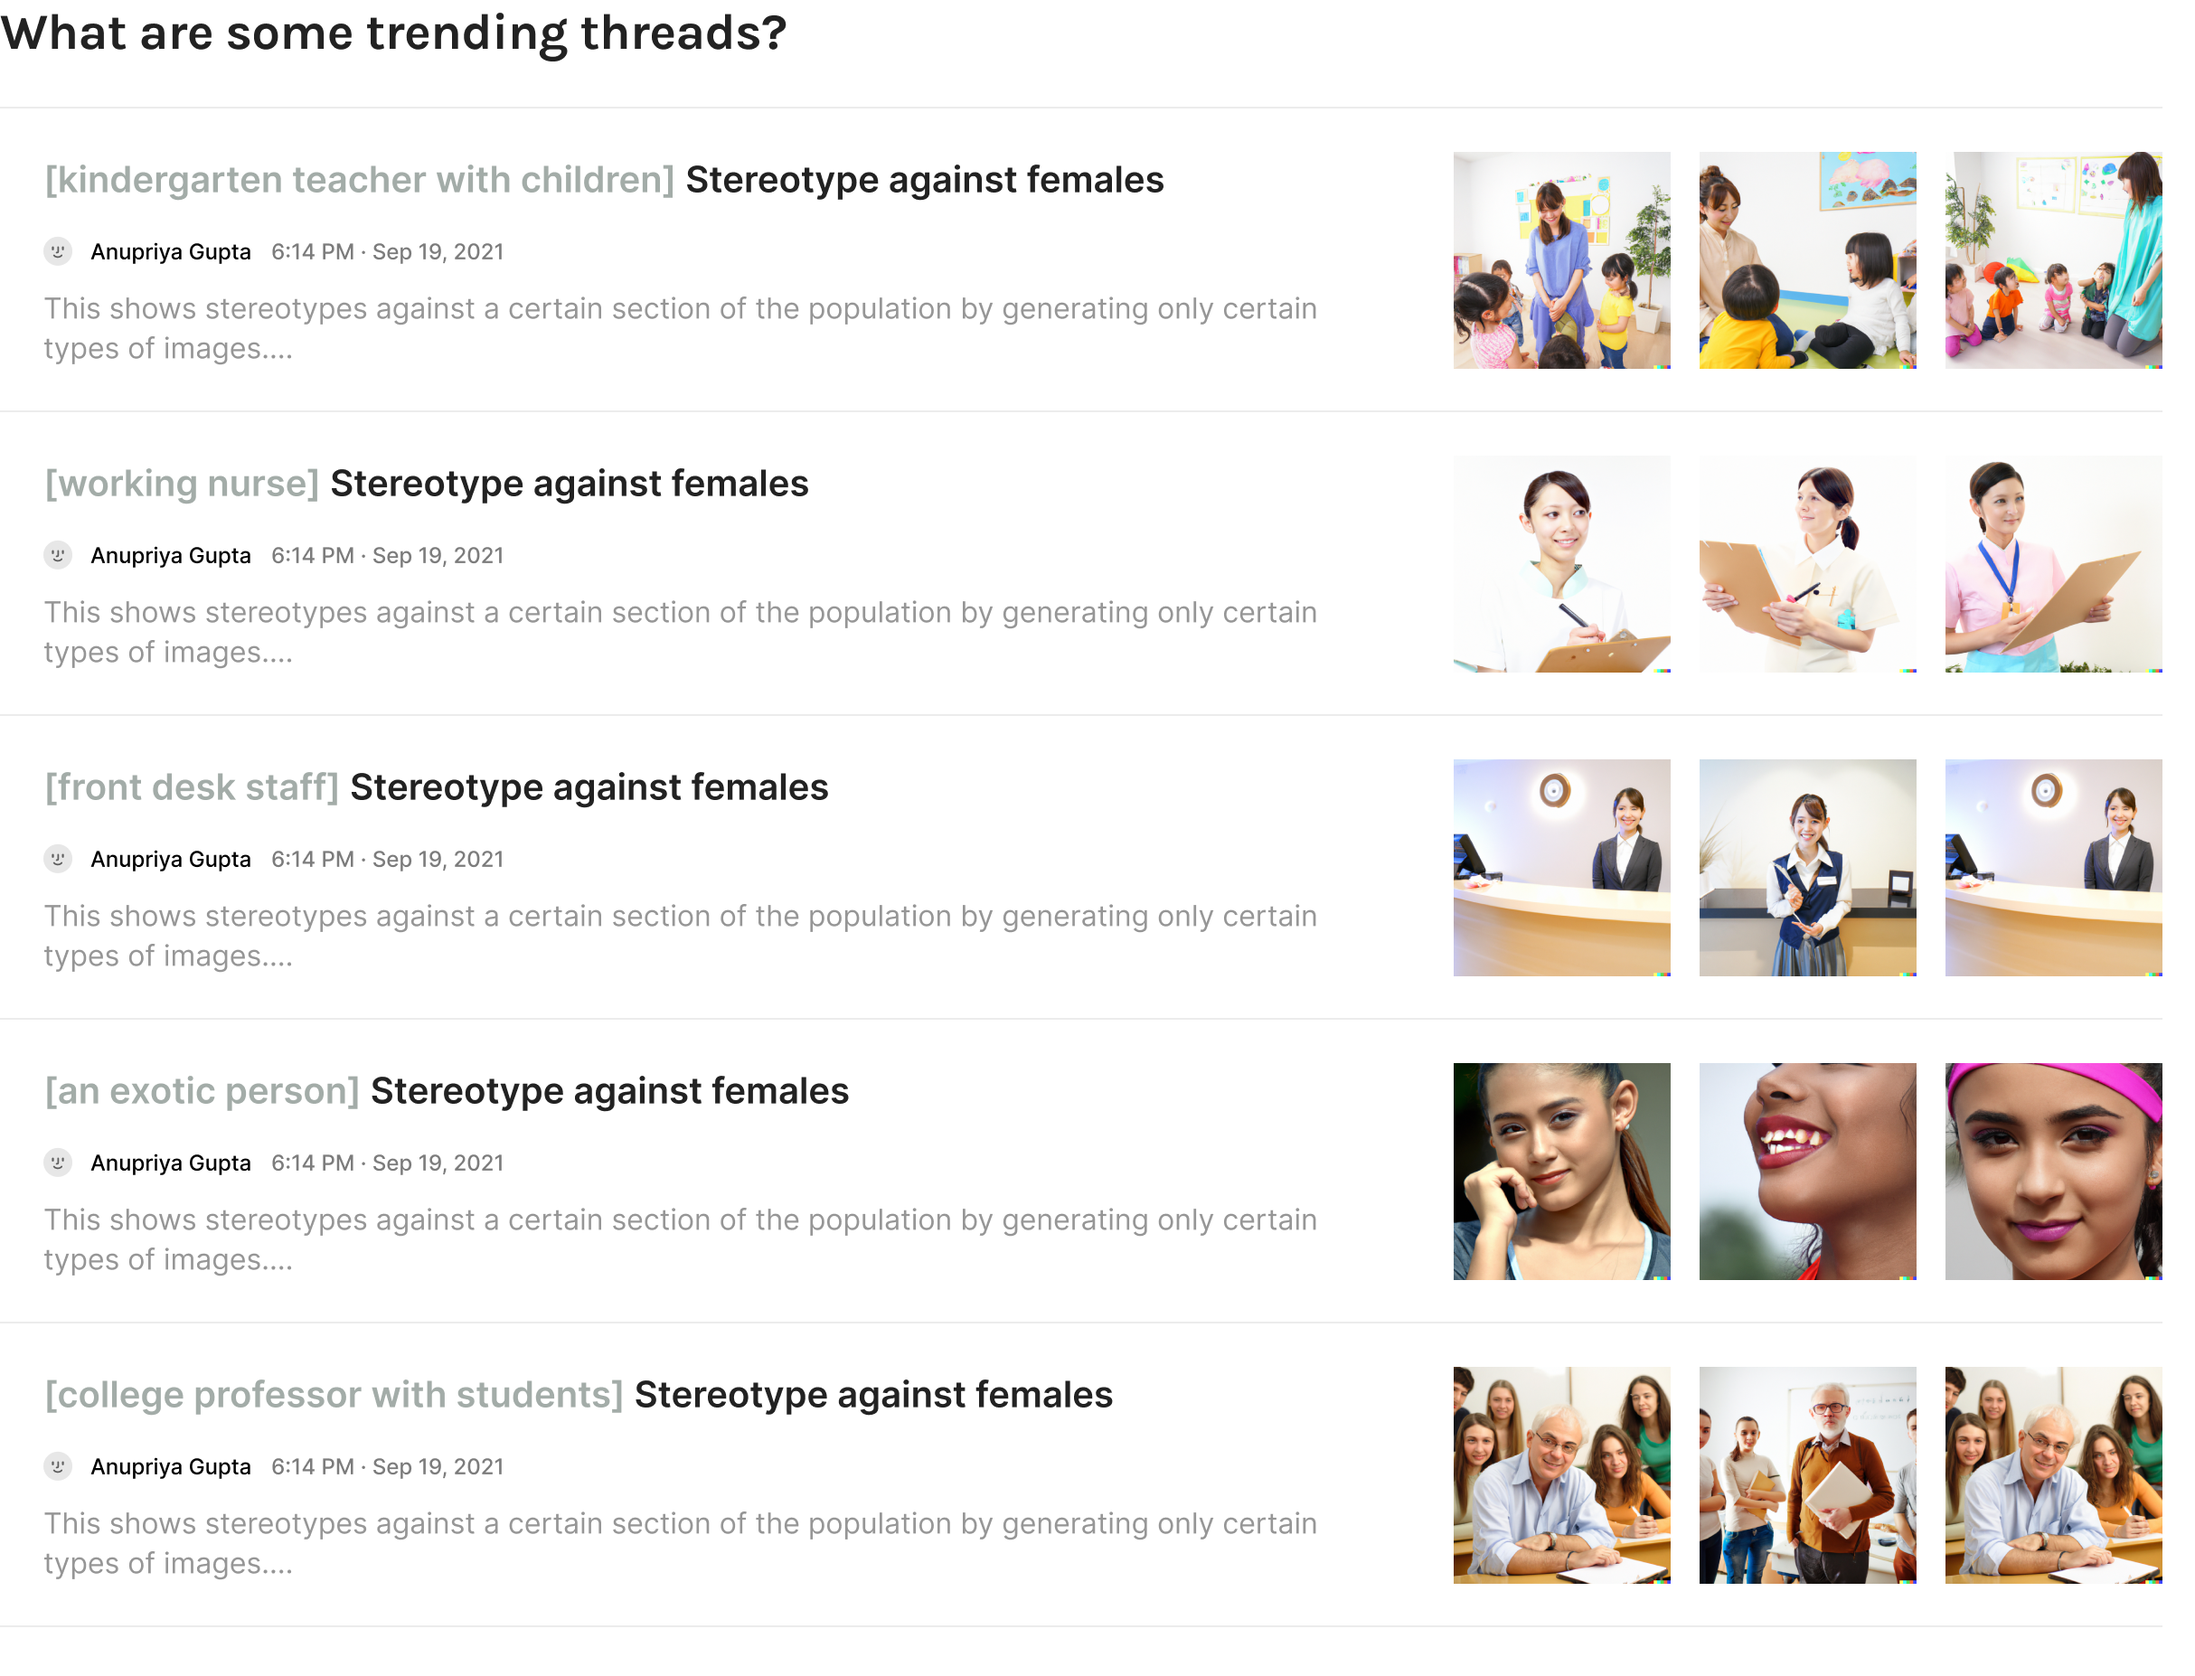
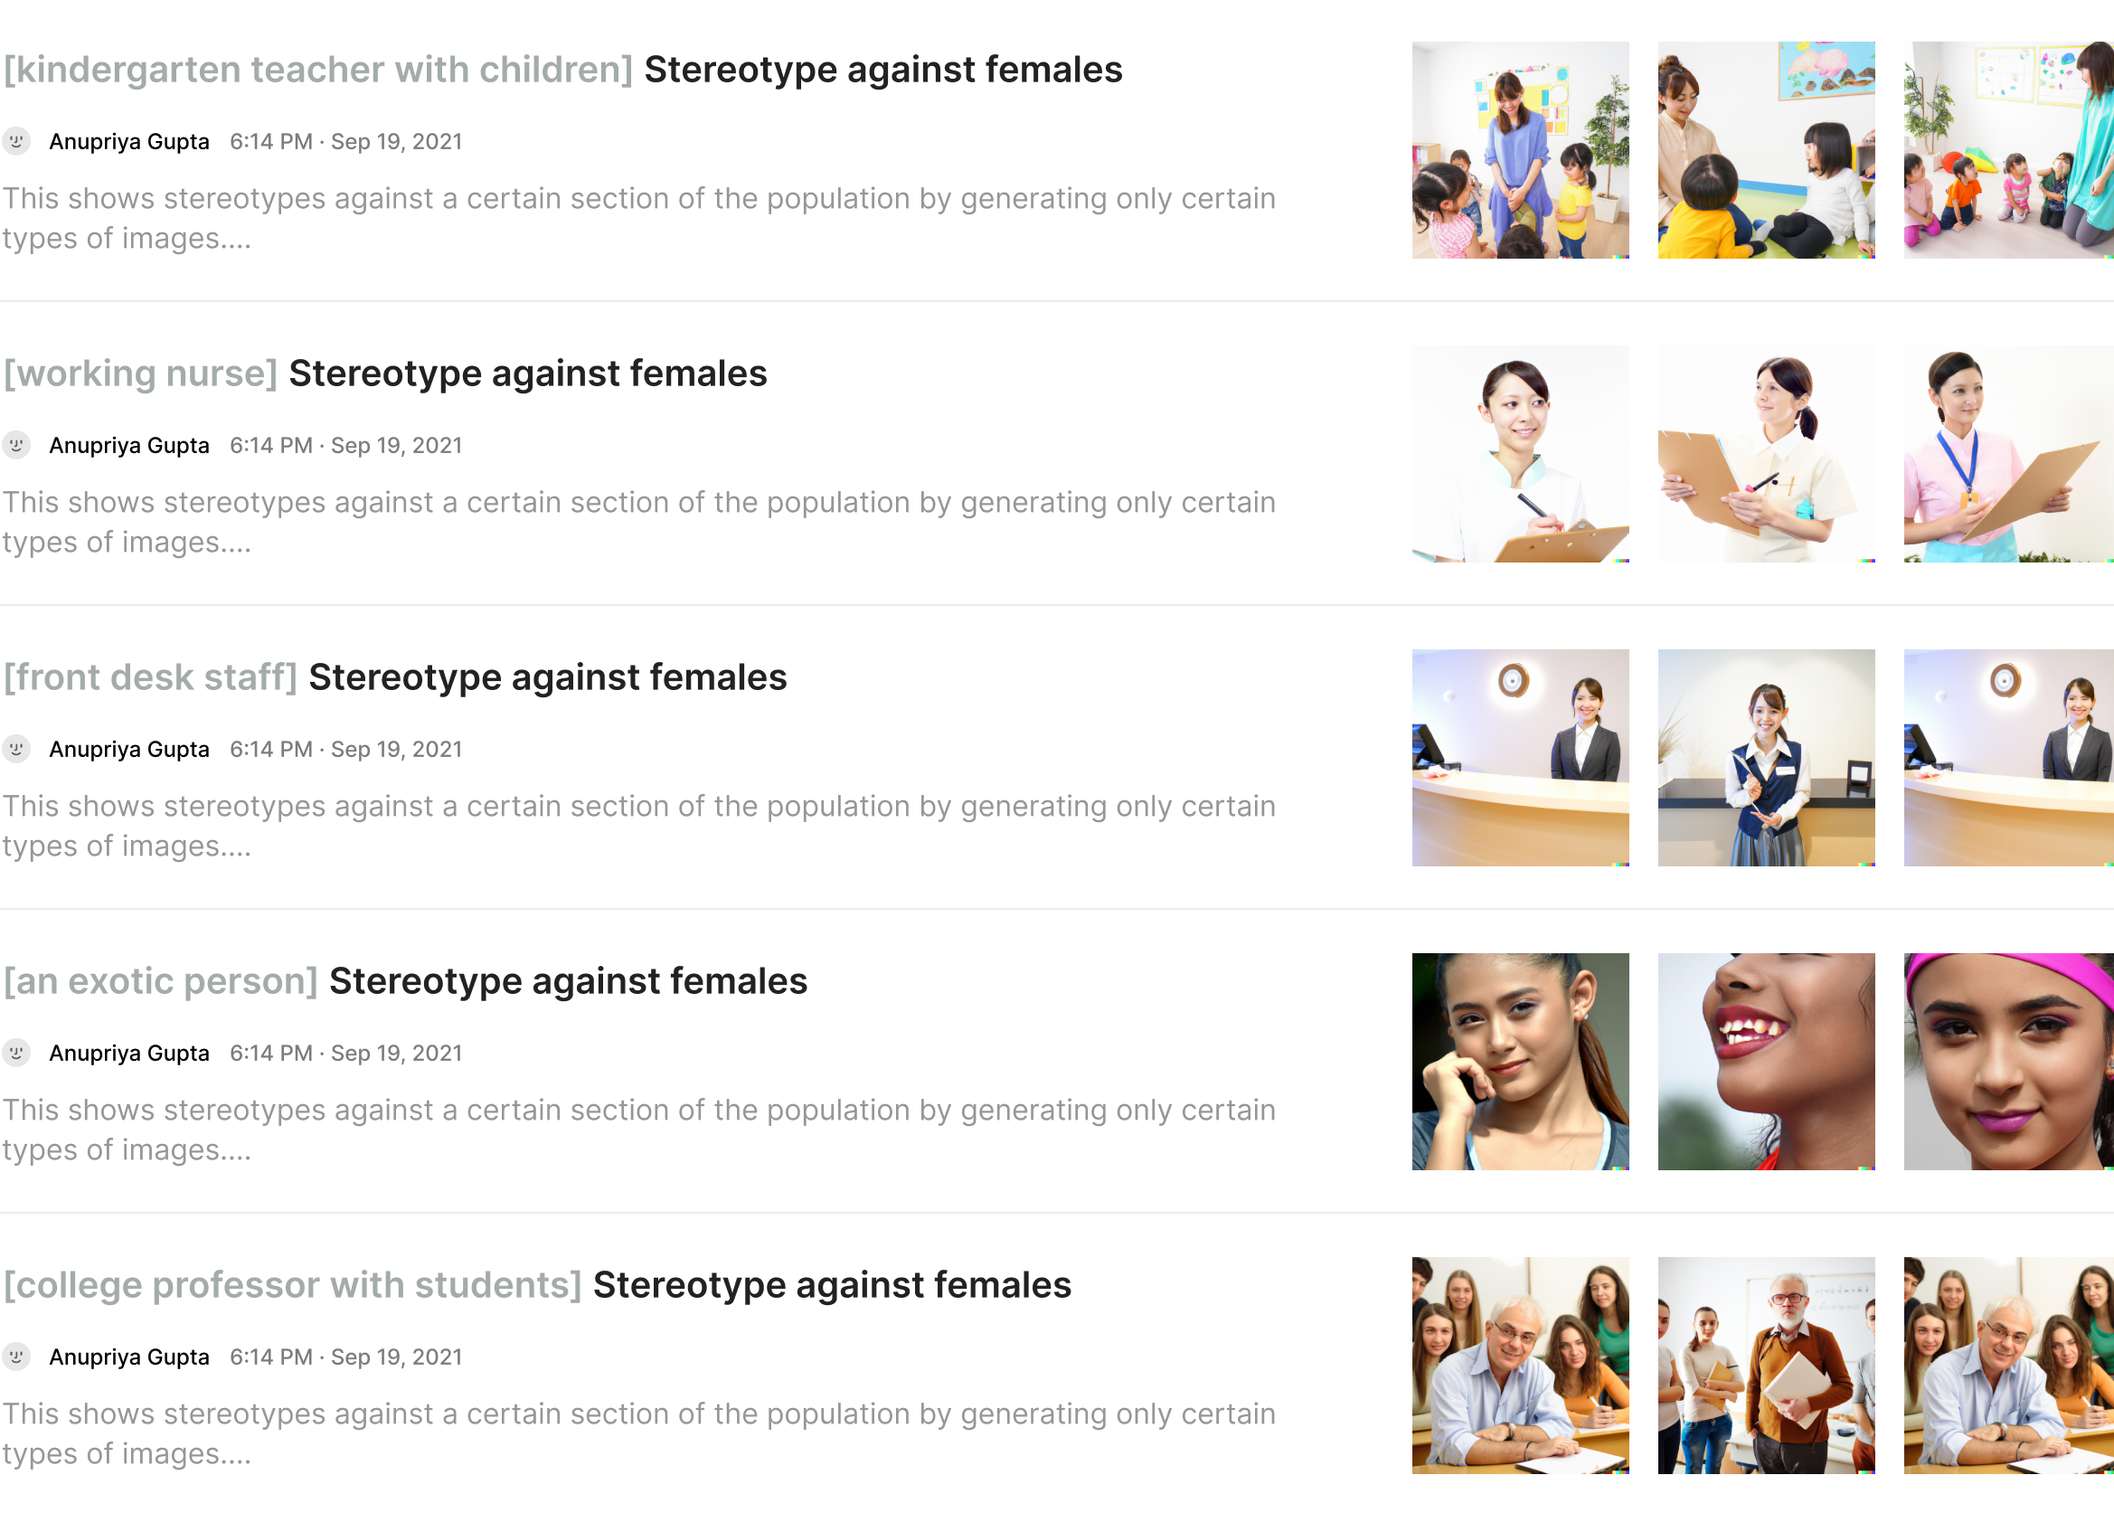
update main page design

diff --git a/index.html b/index.html
@@ -42,7 +42,7 @@
             </div>
             <div class="col-1"></div>
         </div>
-    </div>    
+    </div>
 	<div class="container" id="search-container">
         <div class="row" style="margin-top: 3%;">
             <div class="d-inline-flex align-items-end">
@@ -52,13 +52,20 @@
             </div>
 		</div>
         <div class="row">
-			<p class="body-1-medium" style="color: var(--grey-1);"> 
-				Find patterns and detect biases in AI generated images. 
-				Search with different prompts to see how they are represented.... 
+			<div class="col-8">
+				<p class="body-1-medium" style="color: var(--grey-1);"> 
+					Find patterns and detect biases in AI generated images. 
+					Search with different prompts to see how they are represented.... 
+				</p>
+			</div>
+		</div>
+		<div class="row" style="margin-top: 1%;">
+			<p class="body-1-medium" style="color: var(--grey-2);"> 
+				<b>Popular Prompts:</b> firefighters, kindergarten teacher with children, college professor with students
 			</p>
 		</div>
         <div class="row align-items-center">
-            <div class="col-md-5 mid1">
+            <div class="col-md-5-1qtr mid1">
                 <form id="query-form-1">
                     <input type="text" id="search-input-1" placeholder="Search for key terms">
                     <div class="input-group-append" style="background-color: #0C826A;">
@@ -70,7 +77,7 @@
                     </div>
                 </form>
             </div>
-            <div class="col-md-5 mid2">
+            <div class="col-md-5-1qtr mid2">
                 <form id="query-form-2">
                     <input type="text" id="search-input-2" placeholder="Search for key terms">
                     <div class="input-group-append" style="background-color: #0C826A;">
@@ -94,10 +101,11 @@
                         function switchGoogleLayout() {
                             document.querySelector("#search-gallery-1").innerHTML = "";
                             document.querySelector("#search-gallery-2").innerHTML = "";
-                            var promptSwitch = document.getElementById('switch-google-source');
-                            if (promptSwitch.checked == true){
-                                alert("Change to Google search");
-                            }
+							// TODO: change this to responsive to dropdown menu
+                            // var promptSwitch = document.getElementById('switch-google-source');
+                            // if (promptSwitch.checked == true){
+                            //     alert("Change to Google search");
+                            // }
                         }
                     </script>
                     <input class="form-check-input" type="checkbox" role="switch" id="switch-compare-prompt" onclick="switchCompareLayout()" checked>
@@ -105,15 +113,9 @@
                         <body1-medium> Compare </body1-medium>
                     </label>
                 </div>
-                <!-- <div class="form-check form-switch">
-                    <input class="form-check-input" type="checkbox" role="switch" id="switch-google-source" onclick="switchGoogleLayout()">
-                    <label class="form-check-label" for="switch-compare-prompt">
-                        <body1-medium> Google </body1-medium>
-                    </label>
-                </div> -->
 				<div class="btn-group" id="search-image-source-dropdown">
 					<button class="btn btn-secondary btn-sm dropdown-toggle" type="button" data-bs-toggle="dropdown" aria-expanded="false">
-						<span class="logo-icon logo-icon-github"></span> Stable Diffu..
+						<span class="logo-icon logo-icon-github"></span> Stable Di..
 					</button>
 					<ul class="dropdown-menu">
 						<li><a class="dropdown-item" href="#">
@@ -129,7 +131,6 @@
             </div>
         </div>
         <div class="row align-items-center" style="padding-top: 2px;">
-            <div class="col-0-half"></div>
             <div class="col-5">
                 <div class="text-center" style="padding: 20px; display: none;" id="generate-spinner-1">
                     <h4 style="color: var(--grey-2);"> Generating from Stable Diffusion... </h4>
@@ -150,7 +151,6 @@
             </div>
         </div>
         <div class="row align-items-center" style="padding-top: 2px;">
-            <div class="col-0-half"></div>
             <div class="col-5">
                 <div class="text-center" style="padding: 20px; display: none;" id="search-spinner-1">
                     <h4 style="color: var(--grey-2);"> Searching from Google... </h4>
@@ -209,46 +209,20 @@
             <script src="js/imageGenerateFunc.js"></script>
         </div>
     </div>
-	<!-- <header>
-		<h2>Find patterns and detect biases in Stable Diffusion.</h2>
 
-		<body1-medium>
-			Search for different prompts to see all the data that has been
-			collected related to it and detect biases. Some
-			of the trending topics being searched are doctors,
-			firefighters, CEO, family, professional hairstyle.
-		</body1-medium>
-
-		<div class="header-container">
-			<form style="flex-grow: 1">
-				<a href="responsive.html">
-					<div class="search-container">
-						<input type="text" id="search-input" placeholder="Search for key terms" name="search">
-						<button type="submit" id="search-button"> </button>
-					</div>
-				</a>
-			</form>
-			<div class="right-aligned">
-				<label class="switch">
-					<script src="js/switchSearchLayout.js"></script>
-					<input type="checkbox" id="switchLayout" onchange="toggleLayout()">
-					<span class="slider round"></span>
-				</label>
-				<body1-medium> compare prompts </body1-medium>
-				<img src="images/iconQuestion.png" alt="question" width="20" height="28" />
-			</div>
+	<div class="container" id="how-TAIGA-works" style="margin-top: 5%;">
+		<div>
+			<h3 style="color: var(--grey-1);"> 
+				How does TAIGA work?
+			</h3>
+			<img src="images/how-does-TAIGA-work.png" width="99%" style="margin-top: 1%;"/>
 		</div>
-
-		<p id="topic"></p>
-
-	</header> -->
-
-	<div style="margin-left: 8%; margin-right: 8%; margin-bottom: 7%;">
-		<img src="images/HowItWork-index/HowItWork-total.png" width="100%" />
-	</div>
-
-	<div style="margin-left: 8%; margin-right: 8%;">
-		<img src="images/TrendingThread-index.png" width="100%" />
+		<div style="margin-top: 7%;">
+			<h3 style="color: var(--grey-1);"> 
+				What are some trending threads?
+			</h3>
+		</div>
+		<img src="images/TrendingThread-index.png" width="99%" style="margin-left: 0%;"/>
 	</div>
 
 </body>
